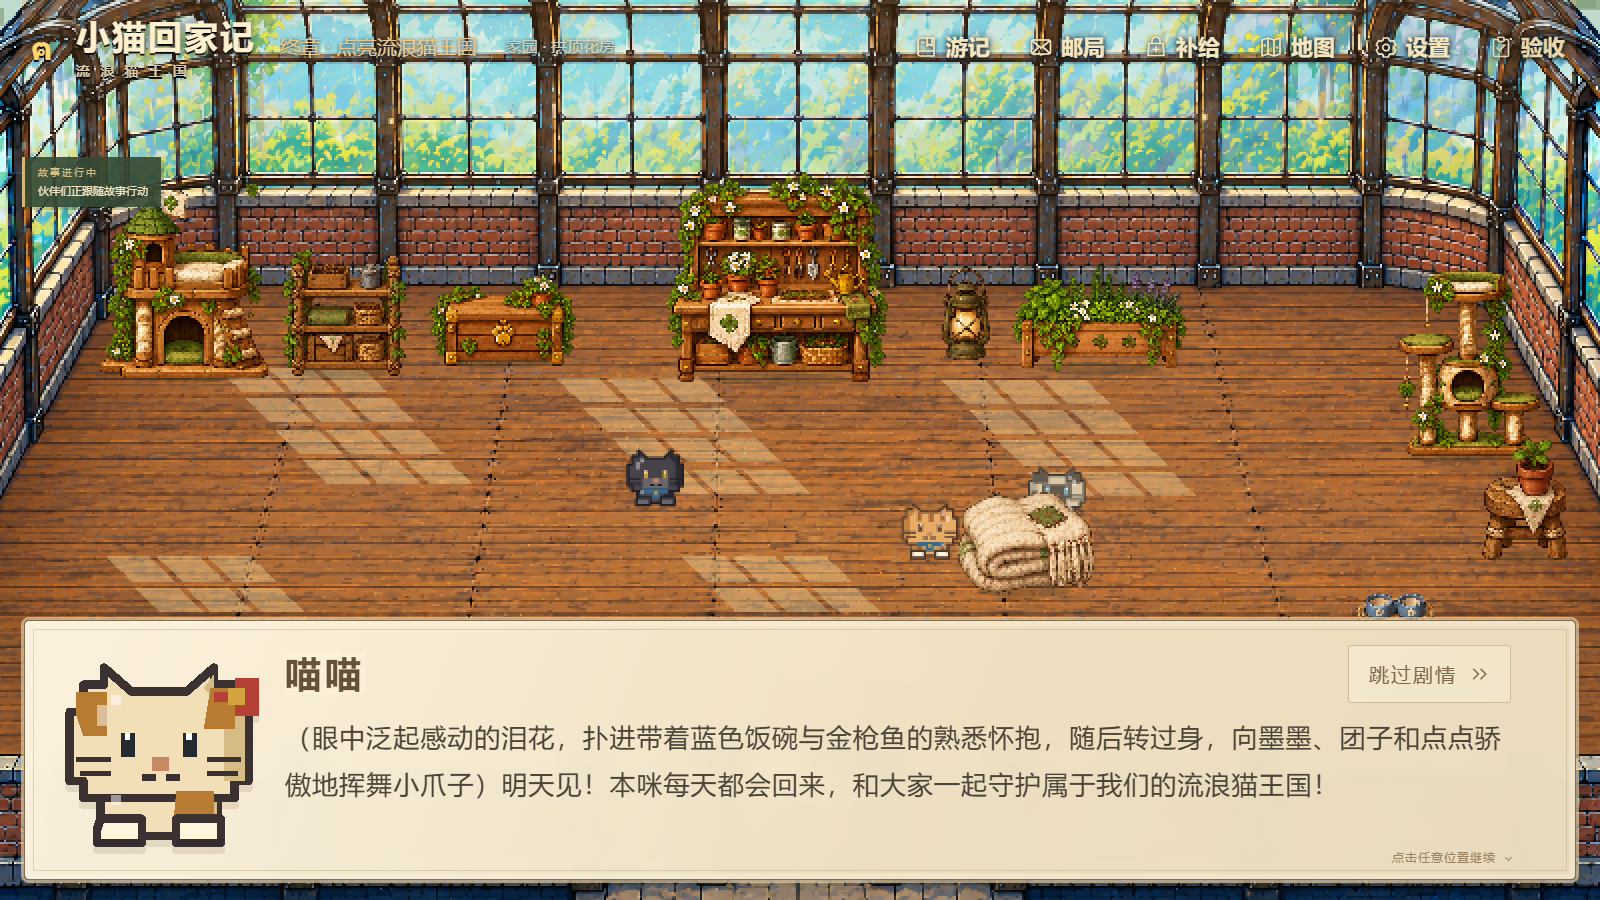
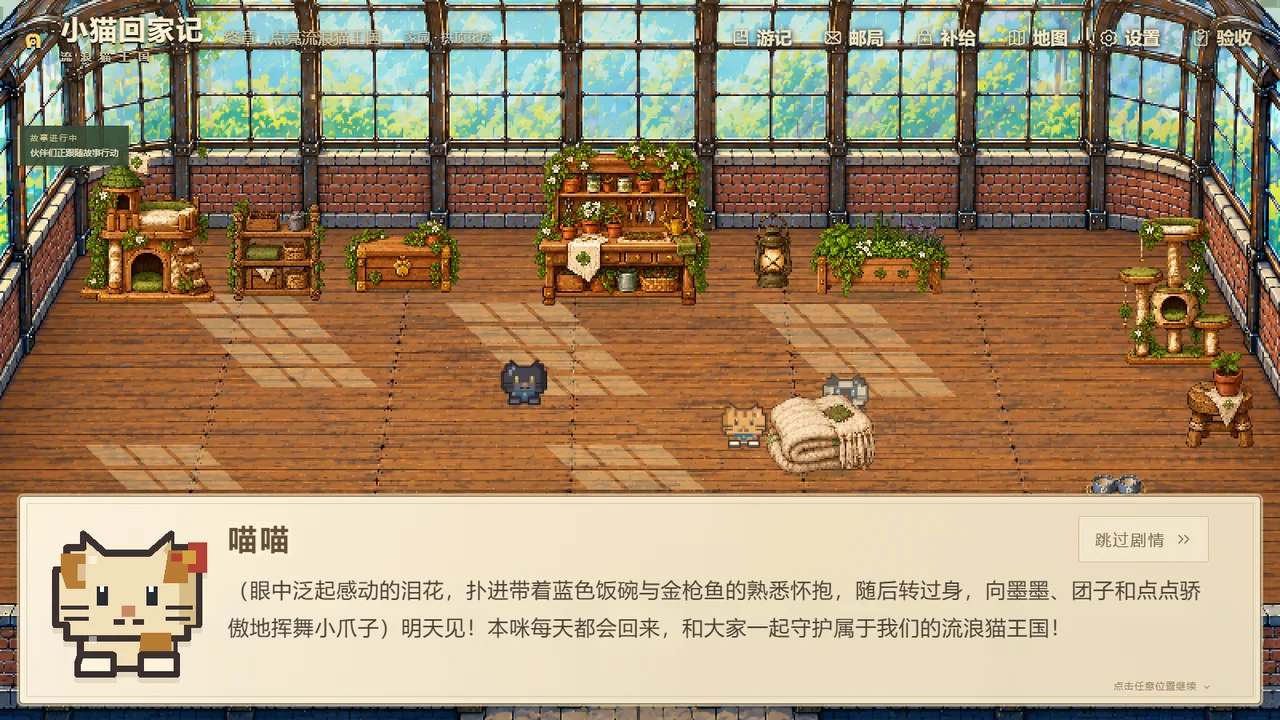
fix(presentation): shrink screenshot previews for slow connections

diff --git a/docs/index.html b/docs/index.html
@@ -75,9 +75,9 @@
      <h2 data-build="text" data-at="0.04">Visual Novel</h2>
      <div class="narrative-shell" data-build="rise" data-at="0.2">
       <button id="dialogueFrame" class="dialogue-frame" type="button" data-local-space aria-label="Next dialogue screenshot" aria-describedby="dialogueState">
-       <img data-media-src="assets/pages/05/friends-dialogue-01.webp" alt="Miaomiao and friends celebrate their shared home; original dialogue, state 1 of 3." data-dialogue="0">
-       <img data-media-src="assets/pages/05/friends-dialogue-02.webp" alt="Tuanzi encourages Miaomiao to return home; original dialogue, state 2 of 3." data-dialogue="1" hidden>
-       <img data-media-src="assets/pages/05/friends-dialogue-03.webp" alt="Miaomiao promises to return and protect their shared kingdom; original dialogue, state 3 of 3." data-dialogue="2" hidden>
+       <img data-media-src="assets/pages/05/friends-dialogue-01.webp?v=20261109-small" alt="Miaomiao and friends celebrate their shared home; original dialogue, state 1 of 3." data-dialogue="0">
+       <img data-media-src="assets/pages/05/friends-dialogue-02.webp?v=20261109-small" alt="Tuanzi encourages Miaomiao to return home; original dialogue, state 2 of 3." data-dialogue="1" hidden>
+       <img data-media-src="assets/pages/05/friends-dialogue-03.webp?v=20261109-small" alt="Miaomiao promises to return and protect their shared kingdom; original dialogue, state 3 of 3." data-dialogue="2" hidden>
       </button>
       <span id="dialogueState" class="sr-only" aria-live="polite">Dialogue 1 of 3. Click or press Enter or Space for the next dialogue.</span>
      </div>
@@ -94,15 +94,15 @@
      </header>
      <div class="home-body" data-build="rise" data-at="0.22">
       <div id="homeGrowth" class="home-view" data-view="growth"><div class="home-gallery growth-gallery">
-       <figure><div class="home-media"><img data-media-src="assets/pages/06/greenhouse-stage-01.webp" alt="Initial greenhouse shelter"></div><figcaption>BEGINNING</figcaption></figure>
-       <figure><div class="home-media"><img data-media-src="assets/pages/06/greenhouse-stage-02.webp" alt="Early greenhouse repairs"></div><figcaption>REBUILDING</figcaption></figure>
-       <figure><div class="home-media"><img data-media-src="assets/pages/06/greenhouse-stage-03.webp" alt="Developed shared greenhouse home"></div><figcaption>GROWING</figcaption></figure>
-       <figure><div class="home-media"><img data-media-src="assets/pages/06/greenhouse-stage-04.webp" alt="Final shared-home state with subtle warmer lighting and string lights"></div><figcaption>CELEBRATION</figcaption></figure>
+       <figure><div class="home-media"><img data-media-src="assets/pages/06/greenhouse-stage-01.webp?v=20261109-small" alt="Initial greenhouse shelter"></div><figcaption>BEGINNING</figcaption></figure>
+       <figure><div class="home-media"><img data-media-src="assets/pages/06/greenhouse-stage-02.webp?v=20261109-small" alt="Early greenhouse repairs"></div><figcaption>REBUILDING</figcaption></figure>
+       <figure><div class="home-media"><img data-media-src="assets/pages/06/greenhouse-stage-03.webp?v=20261109-small" alt="Developed shared greenhouse home"></div><figcaption>GROWING</figcaption></figure>
+       <figure><div class="home-media"><img data-media-src="assets/pages/06/greenhouse-stage-04.webp?v=20261109-small" alt="Final shared-home state with subtle warmer lighting and string lights"></div><figcaption>CELEBRATION</figcaption></figure>
       </div></div>
       <div id="homeResponds" class="home-view" data-view="responds" hidden><div class="home-gallery interaction-gallery">
-       <figure><div class="home-media video-media"><video data-scene-video muted loop playsinline data-media-poster="assets/pages/06/greenhouse-stage-03.webp" preload="none" data-media-src="assets/pages/06/cat-reaction-web.mp4" aria-label="Petting Tuanzi and the companion's response"></video><button class="clip-toggle" type="button" data-local-space aria-label="Pause cat reaction clip">Ⅱ</button></div><figcaption>INTERACTIVE</figcaption></figure>
-       <figure><div class="home-media video-media"><video data-scene-video muted loop playsinline data-media-poster="assets/pages/06/greenhouse-stage-03.webp" preload="none" data-media-src="assets/pages/06/postcard-to-parcel-web.mp4" aria-label="Postcard preparation, sending, parcel and furniture reveal; guaranteed-reward QA example"></video><button class="clip-toggle" type="button" data-local-space aria-label="Pause postcard clip">Ⅱ</button></div><figcaption>RANDOM REWARDS</figcaption></figure>
-       <figure><div class="home-media video-media"><video data-scene-video muted loop playsinline data-media-poster="assets/pages/06/greenhouse-stage-03.webp" preload="none" data-media-src="assets/pages/06/furniture-drag-save-web.mp4" aria-label="Dragging, placing and saving furniture"></video><button class="clip-toggle" type="button" data-local-space aria-label="Pause furniture clip">Ⅱ</button></div><figcaption>CUSTOMIZATION</figcaption></figure>
+       <figure><div class="home-media video-media"><video data-scene-video muted loop playsinline data-media-poster="assets/pages/06/greenhouse-stage-03.webp?v=20261109-small" preload="none" data-media-src="assets/pages/06/cat-reaction-web.mp4" aria-label="Petting Tuanzi and the companion's response"></video><button class="clip-toggle" type="button" data-local-space aria-label="Pause cat reaction clip">Ⅱ</button></div><figcaption>INTERACTIVE</figcaption></figure>
+       <figure><div class="home-media video-media"><video data-scene-video muted loop playsinline data-media-poster="assets/pages/06/greenhouse-stage-03.webp?v=20261109-small" preload="none" data-media-src="assets/pages/06/postcard-to-parcel-web.mp4" aria-label="Postcard preparation, sending, parcel and furniture reveal; guaranteed-reward QA example"></video><button class="clip-toggle" type="button" data-local-space aria-label="Pause postcard clip">Ⅱ</button></div><figcaption>RANDOM REWARDS</figcaption></figure>
+       <figure><div class="home-media video-media"><video data-scene-video muted loop playsinline data-media-poster="assets/pages/06/greenhouse-stage-03.webp?v=20261109-small" preload="none" data-media-src="assets/pages/06/furniture-drag-save-web.mp4" aria-label="Dragging, placing and saving furniture"></video><button class="clip-toggle" type="button" data-local-space aria-label="Pause furniture clip">Ⅱ</button></div><figcaption>CUSTOMIZATION</figcaption></figure>
       </div></div>
      </div>
     </div></div>
@@ -112,11 +112,11 @@
      <div class="section-label" data-build="text" data-at="0.02"><span class="number-pill">07</span> XSOLLA SANDBOX</div>
      <h2 data-build="text" data-at="0.12">Payment</h2>
      <div class="payment-sequence">
-      <figure class="payment-step" data-build="rise" data-at="0.22"><div class="step-frame"><div class="step-tab">01 · Recharge</div><button class="payment-image" type="button" data-full-image="assets/pages/07/1-recharge.png" data-image-title="01 · Recharge" data-local-space aria-label="Enlarge 01 · Recharge screenshot" title="Enlarge screenshot"><svg viewBox="240 76 1120 748" role="img" aria-label="Selected 60-tuna recharge pack and initial balance 0"><image data-media-src="assets/pages/07/1-recharge.webp" width="1600" height="900"/></svg></button></div><figcaption>60-tuna pack</figcaption></figure>
+      <figure class="payment-step" data-build="rise" data-at="0.22"><div class="step-frame"><div class="step-tab">01 · Recharge</div><button class="payment-image" type="button" data-full-image="assets/pages/07/1-recharge.png" data-image-title="01 · Recharge" data-local-space aria-label="Enlarge 01 · Recharge screenshot" title="Enlarge screenshot"><svg viewBox="240 76 1120 748" role="img" aria-label="Selected 60-tuna recharge pack and initial balance 0"><image data-media-src="assets/pages/07/1-recharge.webp?v=20261109-small" width="1600" height="900"/></svg></button></div><figcaption>60-tuna pack</figcaption></figure>
       <span class="payment-arrow" data-build="text" data-at="0.38" aria-hidden="true">→</span>
-      <figure class="payment-step" data-build="rise" data-at="0.44"><div class="step-frame"><div class="step-tab">02 · Xsolla Checkout</div><button class="payment-image" type="button" data-full-image="assets/pages/07/2-checkout.png" data-image-title="02 · Xsolla Checkout" data-local-space aria-label="Enlarge 02 · Xsolla Checkout screenshot" title="Enlarge screenshot"><svg viewBox="895 250 515 485" role="img" aria-label="Xsolla sandbox payment form, sandbox notice and ¥6 payment"><image data-media-src="assets/pages/07/2-checkout.webp" width="1600" height="900"/></svg></button></div><figcaption>Xsolla Sandbox</figcaption></figure>
+      <figure class="payment-step" data-build="rise" data-at="0.44"><div class="step-frame"><div class="step-tab">02 · Xsolla Checkout</div><button class="payment-image" type="button" data-full-image="assets/pages/07/2-checkout.png" data-image-title="02 · Xsolla Checkout" data-local-space aria-label="Enlarge 02 · Xsolla Checkout screenshot" title="Enlarge screenshot"><svg viewBox="895 250 515 485" role="img" aria-label="Xsolla sandbox payment form, sandbox notice and ¥6 payment"><image data-media-src="assets/pages/07/2-checkout.webp?v=20261109-small" width="1600" height="900"/></svg></button></div><figcaption>Xsolla Sandbox</figcaption></figure>
       <span class="payment-arrow" data-build="text" data-at="0.58" aria-hidden="true">→</span>
-      <figure class="payment-step" data-build="rise" data-at="0.65"><div class="step-frame"><div class="step-tab">03 · Confirmation</div><button class="payment-image" type="button" data-full-image="assets/pages/07/3-confirmation.png" data-image-title="03 · Confirmation" data-local-space aria-label="Enlarge 03 · Confirmation screenshot" title="Enlarge screenshot"><svg viewBox="240 43 1120 814" role="img" aria-label="Verified balance 60 and successful sandbox payment history"><image data-media-src="assets/pages/07/3-confirmation.webp" width="1600" height="900"/></svg></button></div><figcaption>Balance 0 → 60 tuna</figcaption></figure>
+      <figure class="payment-step" data-build="rise" data-at="0.65"><div class="step-frame"><div class="step-tab">03 · Confirmation</div><button class="payment-image" type="button" data-full-image="assets/pages/07/3-confirmation.png" data-image-title="03 · Confirmation" data-local-space aria-label="Enlarge 03 · Confirmation screenshot" title="Enlarge screenshot"><svg viewBox="240 43 1120 814" role="img" aria-label="Verified balance 60 and successful sandbox payment history"><image data-media-src="assets/pages/07/3-confirmation.webp?v=20261109-small" width="1600" height="900"/></svg></button></div><figcaption>Balance 0 → 60 tuna</figcaption></figure>
      </div>
     </div></div>
    </section>
@@ -170,7 +170,7 @@
     <div class="scene-camera"><div class="level-design graybox-review">
 <h2 data-build="text" data-at="0.04">Greybox</h2>
 <div class="review-body"><figure class="graybox-figure" data-build="rise" data-at="0.2">
-<img data-media-src="assets/level-design/graybox/chapter2-graybox.webp" alt="Original supplied Chapter 2 graybox plan with its existing route annotations, shown uncropped">
+<img data-media-src="assets/level-design/graybox/chapter2-graybox.webp?v=20261109-small" alt="Original supplied Chapter 2 graybox plan with its existing route annotations, shown uncropped">
 <figcaption>CHAPTER 2 · ORIGINAL ANNOTATED GRAYBOX · 1448 × 1086</figcaption>
 </figure></div>
 

diff --git a/README.md b/README.md
@@ -37,7 +37,7 @@ python -m http.server 8080 --directory docs
 
 Open `http://localhost:8080/` or `http://localhost:8080/previous/`. Right / Space advances, Left reverses, wheel scrubs, Escape finishes motion, Home / End jumps, and `?` opens optional controls. The approved default arrow beat remains 4.2 seconds; reduced-motion preferences retain the original immediate behavior. No persistent header/footer is added.
 
-The complete 60.5-second opening film plays with sound using Play film; Skip/Continue advances manually. Current serves a 1920×1080 H.264/AAC web derivative (13.4 MB; original 65.1 MB retained). The film downloads only after Play. Current attaches image/poster/SVG URLs on scene/view entry and loads hidden dialogue states on demand; only active clips receive video sources. This avoids downloading the rest of the deck behind the visible slide. Lossless WebP copies preserve image pixels; short clips use smaller H.264 fast-start copies with their original complete content, frame rate and timing. The four map clips total 1.4 MB instead of 5.9 MB. [Derivative inventory](docs/library/WEB-MEDIA.json) records sources and sizes. Full-image dialogs and Previous keep their originals. This delivery-only maintenance does not rotate decks or change the v3 engine, styles or composition. Offline-release packaging remains deferred.
+The complete 60.5-second opening film plays with sound using Play film; Skip/Continue advances manually. Current serves a 1920×1080 H.264/AAC web derivative (13.4 MB; original 65.1 MB retained). The film downloads only after Play. Current attaches image/poster/SVG URLs on scene/view entry and loads hidden dialogue states on demand; only active clips receive video sources. This avoids downloading the rest of the deck behind the visible slide. Page 02 artwork uses pixel-identical lossless WebP; screenshots use high-quality WebP previews sized for their frames, with full-resolution originals retained. Short clips use smaller H.264 fast-start copies with their original complete content, frame rate and timing. The four map clips total 1.4 MB instead of 5.9 MB. [Derivative inventory](docs/library/WEB-MEDIA.json) records sources and sizes. Full-image dialogs and Previous keep their originals. This delivery-only maintenance does not rotate decks or change the v3 engine, styles or composition. Offline-release packaging remains deferred.
 
 ## Collaboration and assets
 

diff --git a/docs/library/ASSET-WORKFLOW.md b/docs/library/ASSET-WORKFLOW.md
@@ -23,7 +23,7 @@ Both originals are published in Current under `docs/assets/illustrations/` and r
 
 The selected opening movie is already present under `docs/assets/`; do not re-export or upload it on every page edit. Prefer direct static assets with compatible codecs for GitHub Pages; no Git LFS for publicly served website media. Keep the approved v3 movement engine unchanged unless a specific change is authorized.
 
-The original complete opening movie remains shared and unchanged. On 2026-11-09 the user authorized a minimal loading fix: Current now uses a smaller full-length 1080p web copy and lightweight short-clip derivatives; images use pixel-identical lossless WebP. Source/size/codec records are in [WEB-MEDIA.json](WEB-MEDIA.json). Preserve originals used by Previous and full-image dialogs. Attach scene image/SVG/poster URLs only on scene/view entry, attach clip sources only when active, and fetch the film only after explicit Play. Do not restore eager off-screen asset requests. Offline-release packaging remains deferred.
+The original complete opening movie remains shared and unchanged. On 2026-11-09 the user authorized a minimal loading fix: Current now uses a smaller full-length 1080p web copy and lightweight short-clip derivatives; Page 02 artwork uses pixel-identical lossless WebP and screenshots use high-quality WebP previews sized for their frames (Greybox retains its full dimensions). Source/size/codec records are in [WEB-MEDIA.json](WEB-MEDIA.json). Preserve originals used by Previous and full-image dialogs. Attach scene image/SVG/poster URLs only on scene/view entry, attach clip sources only when active, and fetch the film only after explicit Play. Do not restore eager off-screen asset requests. Offline-release packaging remains deferred.
 
 ## Collaboration mechanics
 
